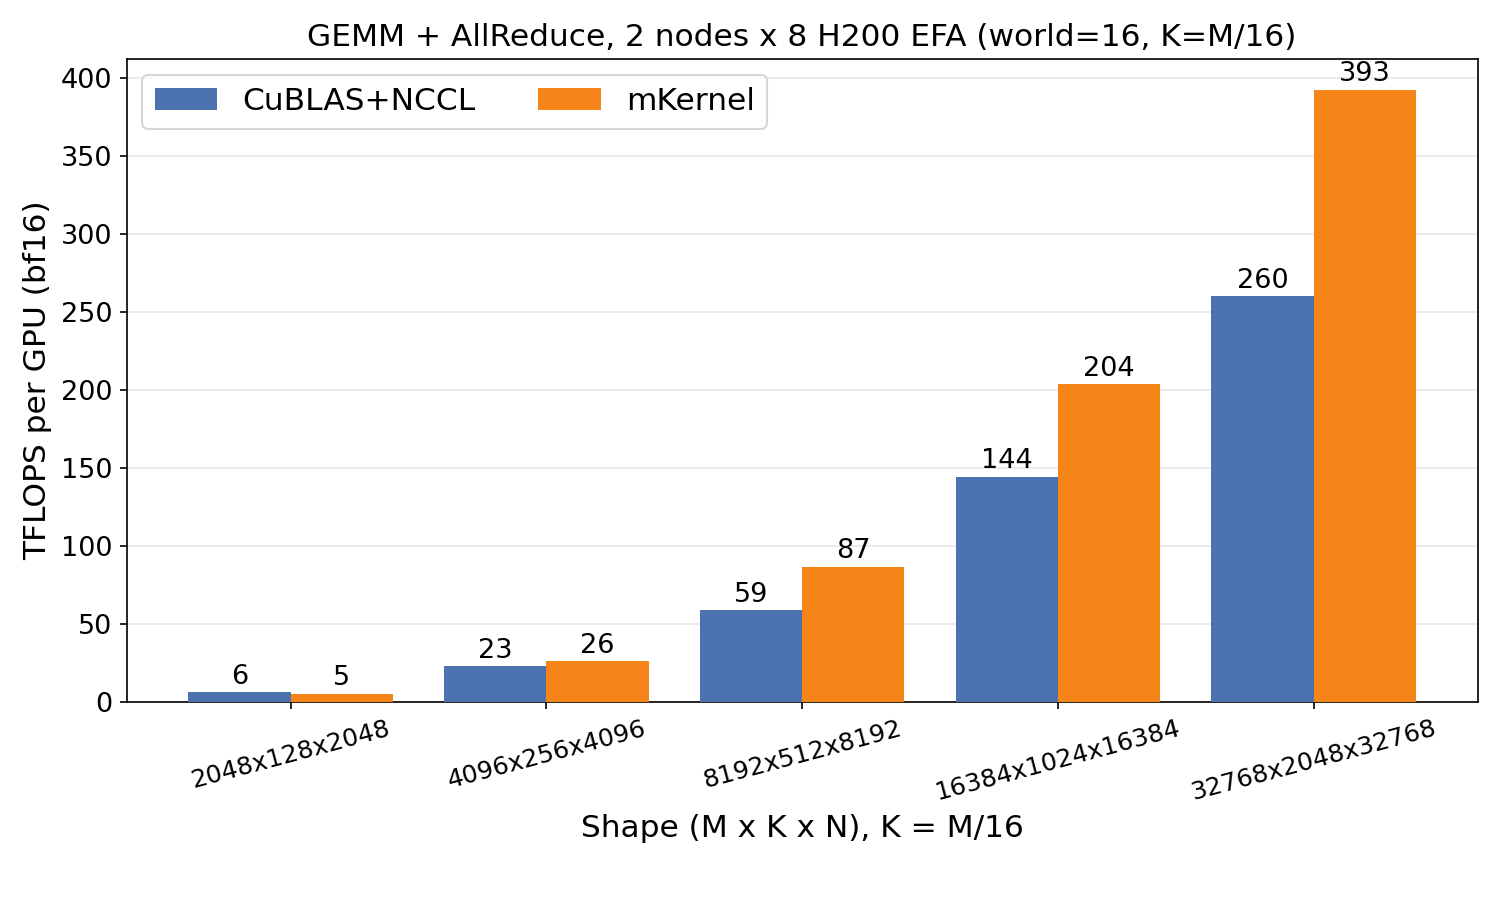
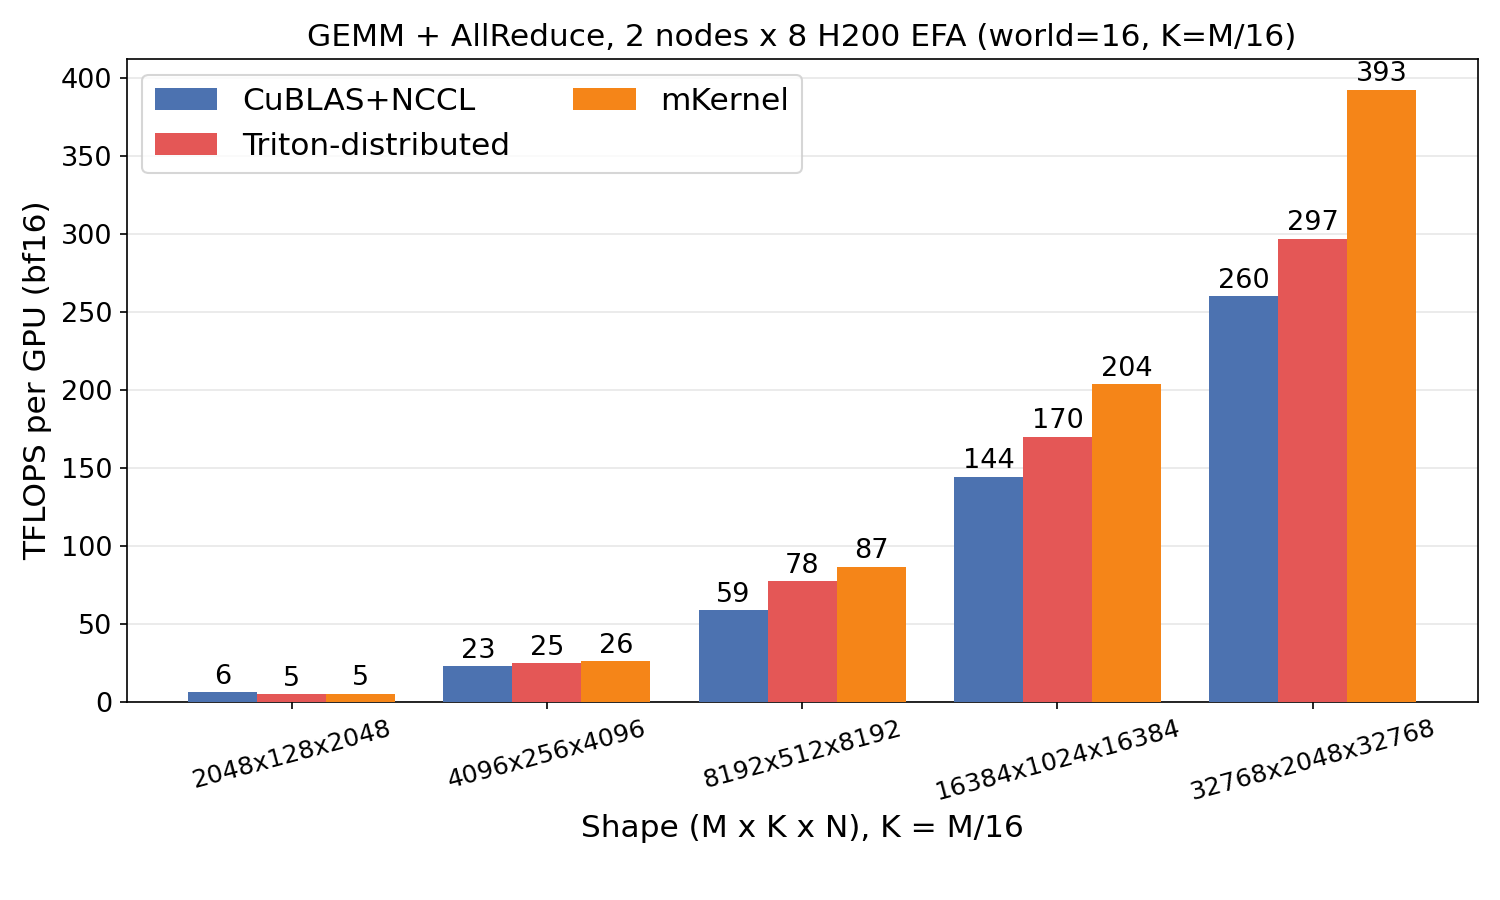
update triton distributed baseline on EFA

diff --git a/plots/plot_tflops_efa.py b/plots/plot_tflops_efa.py
@@ -302,15 +302,11 @@ def load_series(kernel: str):
 
 
 def _load_triton_dist(kernel: str, shapes, with_label: bool = False):
-    """Triton-distributed bars temporarily disabled.
-
-    NVSHMEM-on-EFA via libfabric is broken on this cluster's libfabric 2.4.0
-    (in-place-upgraded from an older version, dropping FABRIC_1.9 ABI). The
-    historical published JSON values were collected against the older
-    libfabric and are not reproducible today. Set MKERNEL_PLOTS_INCLUDE_TD=1
-    to re-enable.
+    """Triton-distributed bars from published JSON. Native NVSHMEM-EFA path
+    rebuilt against libfabric 2.5.0a1 + GDRCopy (the system libfabric 2.4 has
+    a known FABRIC_1.9 ABI break). Set MKERNEL_PLOTS_INCLUDE_TD=0 to disable.
     """
-    if os.environ.get("MKERNEL_PLOTS_INCLUDE_TD") != "1":
+    if os.environ.get("MKERNEL_PLOTS_INCLUDE_TD") == "0":
         return (None, None) if with_label else None
     qkey = TRITON_DIST_KEY.get(kernel)
     if qkey is None: